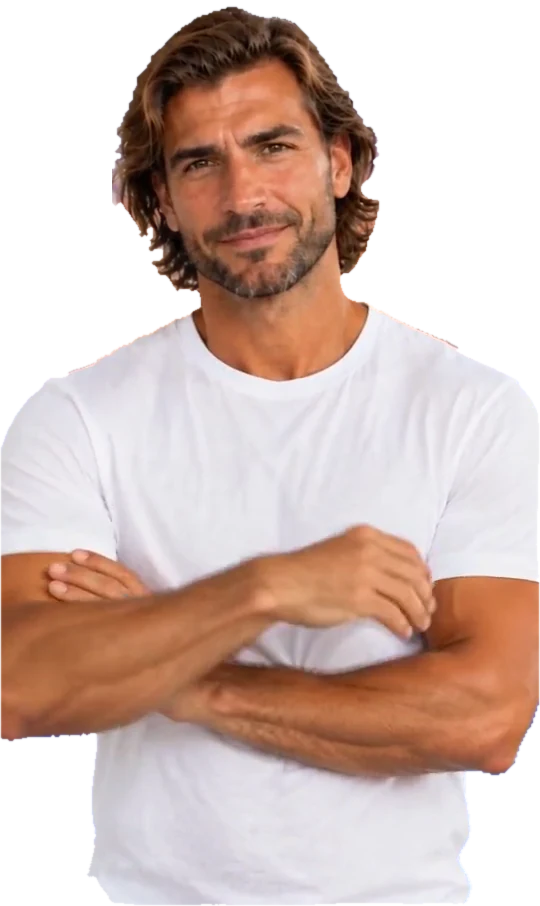
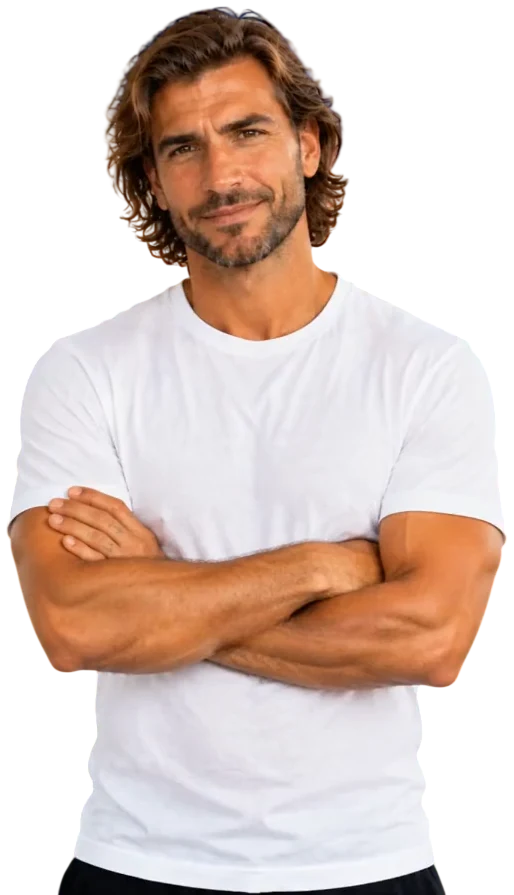
Usar la foto de Luca editada con fondo transparente

diff --git a/sitio/index.html b/sitio/index.html
@@ -102,7 +102,7 @@ footer small{display:block;margin-top:10px;opacity:.8}
       <p class="gratis">Toma unos minutos. No tiene costo.</p>
       <div class="hero-luca">
         <p class="burbuja">¡Hola! Soy el asistente virtual de Trabájale.</p>
-        <img src="luca.webp" width="540" height="906" alt="Luca, asistente virtual de Trabájale" decoding="async">
+        <img src="luca.webp" width="514" height="895" alt="Luca, asistente virtual de Trabájale" decoding="async">
       </div>
     </div>
   </div>
